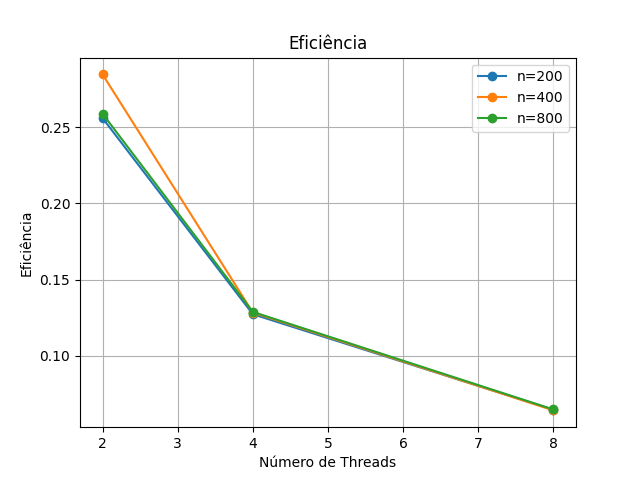
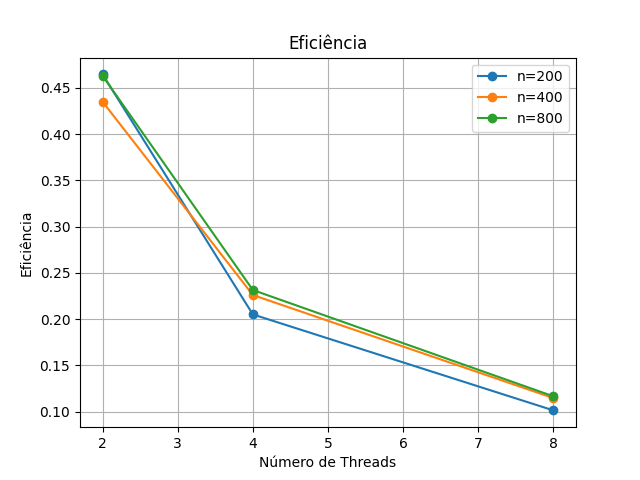
Finalizado?

diff --git a/matriz.c b/matriz.c
@@ -24,6 +24,13 @@ void inicializar(double *m, int n) {
         m[i] = rand() % 10;
 }
 
+// ✅ Função auxiliar para medir tempo real (wall time)
+double get_wall_time() {
+    struct timespec ts;
+    clock_gettime(CLOCK_MONOTONIC, &ts);
+    return ts.tv_sec + ts.tv_nsec / 1e9;
+}
+
 // Multiplicação sequencial
 void multiplicacao_sequencial(double *A, double *B, double *C, int n) {
     for (int i = 0; i < n; i++) {
@@ -55,20 +62,20 @@ void* multiplicacao_paralela(void *arg) {
     pthread_exit(NULL);
 }
 
-// Tempo seq
+// ✅ Tempo sequencial usando wall time
 double tempo_seq(double *A, double *B, double *C, int n) {
-    clock_t ini = clock();
+    double ini = get_wall_time();
     multiplicacao_sequencial(A, B, C, n);
-    return (double)(clock() - ini) / CLOCKS_PER_SEC;
+    return get_wall_time() - ini;
 }
 
-// Tempo paralelo
+// ✅ Tempo paralelo usando wall time
 double tempo_par(double *A, double *B, double *C, int n, int nt) {
 
     pthread_t threads[MAX_THREADS];
     ThreadData dados[MAX_THREADS];
 
-    clock_t ini = clock();
+    double ini = get_wall_time();
 
     for (int i = 0; i < nt; i++) {
         dados[i].id = i;
@@ -85,15 +92,14 @@ double tempo_par(double *A, double *B, double *C, int n, int nt) {
         pthread_join(threads[i], NULL);
     }
 
-    return (double)(clock() - ini) / CLOCKS_PER_SEC;
+    return get_wall_time() - ini;
 }
 
 int main() {
 
-    int tamanhos[] = {1000, 2000, 4000};
-    int threads[] = {2, 4, 8};
-    //int tamanhos[] = {200, 400, 800}; teste com numero menor
-    //int threads[] = {2, 4, 8}; teste com numero menor
+    int tamanhos[] = {200, 400, 800};
+    int threads[]  = {2, 4, 8};
+    int num_repeticoes = 10; // ✅ mínimo exigido pelo enunciado
 
     FILE *csv = fopen("resultados.csv", "w");
     fprintf(csv, "Dimensao,Threads,Tempo_Seq,Tempo_Par,Speedup,Eficiencia\n");
@@ -120,28 +126,27 @@ int main() {
         inicializar(A, n);
         inicializar(B, n);
 
+        // ✅ 10 repetições para o sequencial
         double t_seq = 0;
-
-        for (int i = 0; i < 3; i++) // reduzido pra não travar
+        for (int i = 0; i < num_repeticoes; i++)
             t_seq += tempo_seq(A, B, C, n);
-
-        t_seq /= 3;
+        t_seq /= num_repeticoes;
 
         for (int j = 0; j < 3; j++) {
 
             int nt = threads[j];
             double t_par = 0;
 
-            for (int i = 0; i < 3; i++)
+            // ✅ 10 repetições para o paralelo
+            for (int i = 0; i < num_repeticoes; i++)
                 t_par += tempo_par(A, B, C, n, nt);
-
-            t_par /= 3;
+            t_par /= num_repeticoes;
 
             double speedup = t_seq / t_par;
             double eficiencia = speedup / nt;
 
             // tabela
-            printf("| %4dx%-4d | %7d | %9.2f | %9.2f | %7.2f | %10.2f |\n",
+            printf("| %4dx%-4d | %7d | %9.4f | %9.4f | %7.2f | %10.2f |\n",
                    n, n, nt, t_seq, t_par, speedup, eficiencia);
 
             // csv

diff --git a/graficos.py b/graficos.py
@@ -41,4 +41,7 @@ plt.ylabel("Eficiência")
 plt.title("Eficiência")
 plt.legend()
 plt.grid()
-plt.savefig("eficiencia.png")
+plt.savefig("eficiencia.png")  # ✅ estava faltando
+plt.clf()
+
+print("Gráficos gerados: tempo_execucao.png, speedup.png, eficiencia.png")
